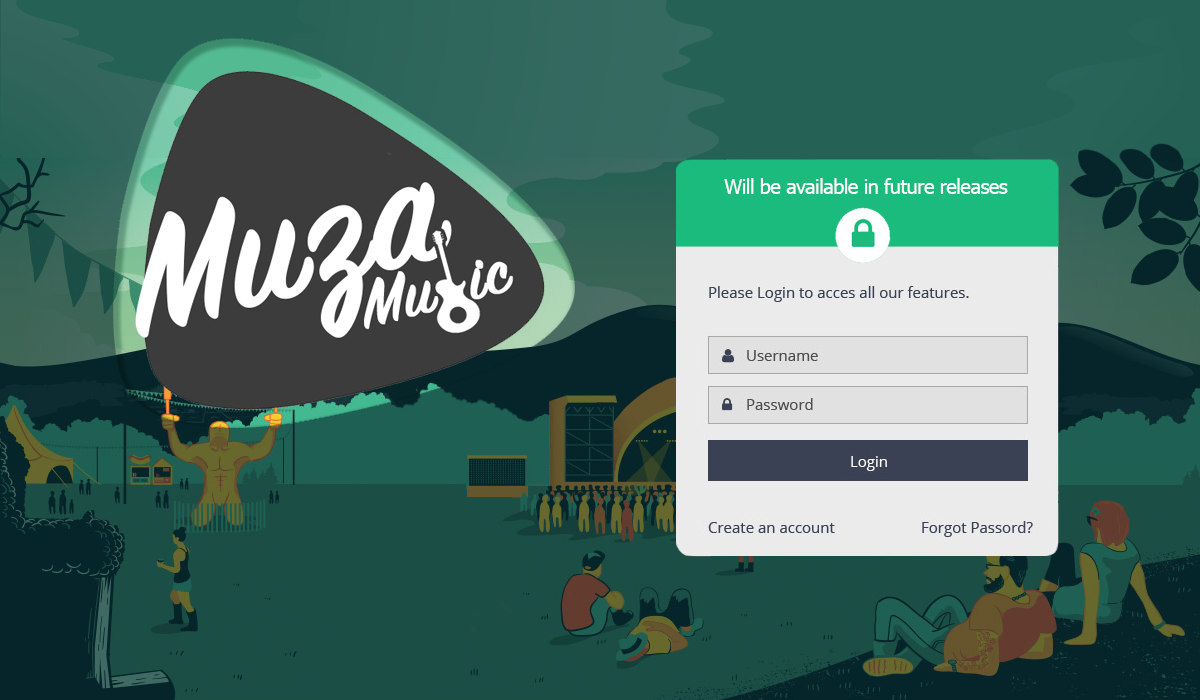
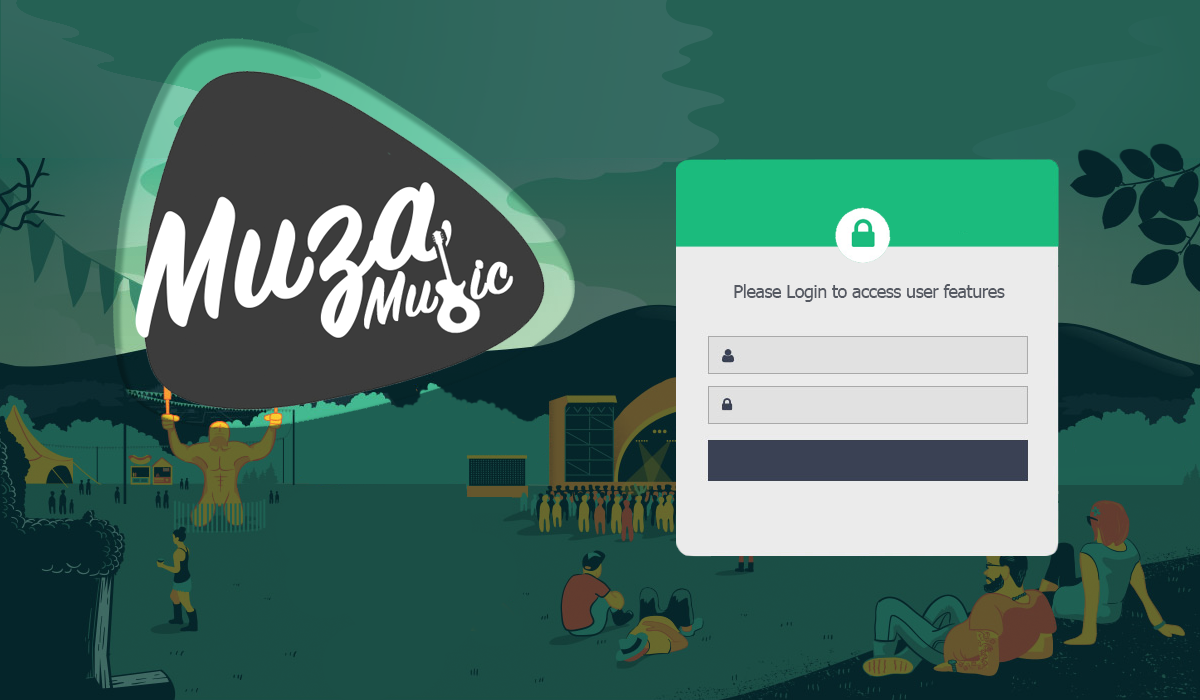
login was updated

diff --git a/src/gui/MainLogin.java b/src/gui/MainLogin.java
@@ -16,6 +16,7 @@ import java.util.Iterator;
 import java.util.logging.Level;
 import java.util.logging.Logger;
 import javax.swing.ComboBoxModel;
+import javax.swing.JOptionPane;
 import javax.swing.JPanel;
 
 /**
@@ -29,11 +30,6 @@ public class MainLogin extends javax.swing.JFrame {
      */
     public MainLogin() throws SQLException {
         initComponents();
-        ResultSet rs = MainClass.getDB().query("SELECT * FROM tblAgent");
-        jComboBox1.addItem("Select Agent");
-        while (rs.next()) {
-            jComboBox1.addItem(rs.getString(1));
-        }
         setVisible(true);
     }
 
@@ -46,127 +42,127 @@ public class MainLogin extends javax.swing.JFrame {
     // <editor-fold defaultstate="collapsed" desc="Generated Code">//GEN-BEGIN:initComponents
     private void initComponents() {
 
-        jButton4 = new javax.swing.JButton();
-        jLabel3 = new javax.swing.JLabel();
-        jLabel2 = new javax.swing.JLabel();
-        jButton1 = new javax.swing.JButton();
-        jComboBox1 = new javax.swing.JComboBox<>();
-        jLabel1 = new javax.swing.JLabel();
+        exitBtn = new javax.swing.JButton();
+        forgotPasswordBtn2 = new javax.swing.JButton();
+        newAccountBtn = new javax.swing.JButton();
+        loginBtn = new javax.swing.JButton();
+        passwordField = new javax.swing.JTextField();
+        usernameField = new javax.swing.JTextField();
+        wallpaper = new javax.swing.JLabel();
 
         setDefaultCloseOperation(javax.swing.WindowConstants.EXIT_ON_CLOSE);
         setPreferredSize(new java.awt.Dimension(1200, 725));
         setResizable(false);
         getContentPane().setLayout(null);
 
-        jButton4.setIcon(new javax.swing.ImageIcon(getClass().getResource("/imgs/exitBtn.png"))); // NOI18N
-        jButton4.setBorder(null);
-        jButton4.setBorderPainted(false);
-        jButton4.setContentAreaFilled(false);
-        jButton4.addActionListener(new java.awt.event.ActionListener() {
+        exitBtn.setIcon(new javax.swing.ImageIcon(getClass().getResource("/imgs/exitBtn.png"))); // NOI18N
+        exitBtn.setBorder(null);
+        exitBtn.setBorderPainted(false);
+        exitBtn.setContentAreaFilled(false);
+        exitBtn.addActionListener(new java.awt.event.ActionListener() {
             public void actionPerformed(java.awt.event.ActionEvent evt) {
-                jButton4ActionPerformed(evt);
+                exitBtnActionPerformed(evt);
             }
         });
-        getContentPane().add(jButton4);
-        jButton4.setBounds(1070, 610, 130, 40);
+        getContentPane().add(exitBtn);
+        exitBtn.setBounds(1070, 610, 130, 40);
 
-        jLabel3.setForeground(new java.awt.Color(255, 255, 255));
-        jLabel3.setText("Or login as representative:");
-        getContentPane().add(jLabel3);
-        jLabel3.setBounds(220, 580, 190, 16);
-
-        jLabel2.setForeground(new java.awt.Color(255, 255, 255));
-        jLabel2.setText("Choose an agent to login with:");
-        getContentPane().add(jLabel2);
-        jLabel2.setBounds(220, 540, 190, 16);
-
-        jButton1.setText("Representative");
-        jButton1.addItemListener(new java.awt.event.ItemListener() {
-            public void itemStateChanged(java.awt.event.ItemEvent evt) {
-                jButton1ItemStateChanged(evt);
-            }
-        });
-        jButton1.addActionListener(new java.awt.event.ActionListener() {
+        forgotPasswordBtn2.setFont(new java.awt.Font("Dialog", 0, 14)); // NOI18N
+        forgotPasswordBtn2.setForeground(new java.awt.Color(0, 0, 0));
+        forgotPasswordBtn2.setText("Forgot password");
+        forgotPasswordBtn2.setBorder(null);
+        forgotPasswordBtn2.setBorderPainted(false);
+        forgotPasswordBtn2.setContentAreaFilled(false);
+        forgotPasswordBtn2.setDefaultCapable(false);
+        forgotPasswordBtn2.setFocusPainted(false);
+        forgotPasswordBtn2.addActionListener(new java.awt.event.ActionListener() {
             public void actionPerformed(java.awt.event.ActionEvent evt) {
-                jButton1ActionPerformed(evt);
+                forgotPasswordBtn2ActionPerformed(evt);
             }
         });
-        getContentPane().add(jButton1);
-        jButton1.setBounds(410, 570, 130, 30);
+        getContentPane().add(forgotPasswordBtn2);
+        forgotPasswordBtn2.setBounds(880, 500, 140, 20);
 
-        jComboBox1.addItemListener(new java.awt.event.ItemListener() {
-            public void itemStateChanged(java.awt.event.ItemEvent evt) {
-                jComboBox1ItemStateChanged(evt);
-            }
-        });
-        jComboBox1.addActionListener(new java.awt.event.ActionListener() {
+        newAccountBtn.setFont(new java.awt.Font("Dialog", 0, 14)); // NOI18N
+        newAccountBtn.setForeground(new java.awt.Color(0, 0, 0));
+        newAccountBtn.setText("Create new account");
+        newAccountBtn.setBorder(null);
+        newAccountBtn.setBorderPainted(false);
+        newAccountBtn.setContentAreaFilled(false);
+        newAccountBtn.setDefaultCapable(false);
+        newAccountBtn.setFocusPainted(false);
+        newAccountBtn.addActionListener(new java.awt.event.ActionListener() {
             public void actionPerformed(java.awt.event.ActionEvent evt) {
-                jComboBox1ActionPerformed(evt);
+                newAccountBtnActionPerformed(evt);
             }
         });
-        getContentPane().add(jComboBox1);
-        jComboBox1.setBounds(410, 530, 130, 30);
+        getContentPane().add(newAccountBtn);
+        newAccountBtn.setBounds(710, 500, 160, 20);
 
-        jLabel1.setIcon(new javax.swing.ImageIcon(getClass().getResource("/imgs/muzaLogin.png"))); // NOI18N
-        getContentPane().add(jLabel1);
-        jLabel1.setBounds(0, 0, 1200, 700);
+        loginBtn.setFont(new java.awt.Font("Dialog", 0, 14)); // NOI18N
+        loginBtn.setForeground(new java.awt.Color(255, 255, 255));
+        loginBtn.setText("Login");
+        loginBtn.setBorder(null);
+        loginBtn.setBorderPainted(false);
+        loginBtn.setContentAreaFilled(false);
+        loginBtn.setDefaultCapable(false);
+        loginBtn.setFocusPainted(false);
+        loginBtn.setOpaque(false);
+        loginBtn.addActionListener(new java.awt.event.ActionListener() {
+            public void actionPerformed(java.awt.event.ActionEvent evt) {
+                loginBtnActionPerformed(evt);
+            }
+        });
+        getContentPane().add(loginBtn);
+        loginBtn.setBounds(713, 440, 310, 40);
+
+        passwordField.setBorder(null);
+        passwordField.setOpaque(false);
+        getContentPane().add(passwordField);
+        passwordField.setBounds(740, 390, 280, 30);
+
+        usernameField.setBorder(null);
+        usernameField.setOpaque(false);
+        getContentPane().add(usernameField);
+        usernameField.setBounds(740, 340, 280, 30);
+
+        wallpaper.setIcon(new javax.swing.ImageIcon(getClass().getResource("/imgs/muzaLogin.png"))); // NOI18N
+        getContentPane().add(wallpaper);
+        wallpaper.setBounds(0, 0, 1200, 700);
 
         pack();
     }// </editor-fold>//GEN-END:initComponents
 
-    private void jComboBox1ActionPerformed(java.awt.event.ActionEvent evt) {//GEN-FIRST:event_jComboBox1ActionPerformed
-        
-    }//GEN-LAST:event_jComboBox1ActionPerformed
-
-    private void jButton4ActionPerformed(java.awt.event.ActionEvent evt) {//GEN-FIRST:event_jButton4ActionPerformed
+    private void exitBtnActionPerformed(java.awt.event.ActionEvent evt) {//GEN-FIRST:event_exitBtnActionPerformed
         System.exit(1);
-    }//GEN-LAST:event_jButton4ActionPerformed
+    }//GEN-LAST:event_exitBtnActionPerformed
 
-    private void jComboBox1ItemStateChanged(java.awt.event.ItemEvent evt) {//GEN-FIRST:event_jComboBox1ItemStateChanged
-        if (jComboBox1.getSelectedIndex()==0) {
+    private void newAccountBtnActionPerformed(java.awt.event.ActionEvent evt) {//GEN-FIRST:event_newAccountBtnActionPerformed
+        // TODO add your handling code here:
+    }//GEN-LAST:event_newAccountBtnActionPerformed
+
+    private void forgotPasswordBtn2ActionPerformed(java.awt.event.ActionEvent evt) {//GEN-FIRST:event_forgotPasswordBtn2ActionPerformed
+        // TODO add your handling code here:
+    }//GEN-LAST:event_forgotPasswordBtn2ActionPerformed
+
+    private void loginBtnActionPerformed(java.awt.event.ActionEvent evt) {//GEN-FIRST:event_loginBtnActionPerformed
+        if (usernameField.getText().equals("") || passwordField.getText().equals("")) {
+            JOptionPane.showMessageDialog(this, "You must enter username & password", "Login error", JOptionPane.ERROR_MESSAGE);
             return;
         }
-        try {
-            if (evt.getStateChange() != ItemEvent.SELECTED) {
-                return;
-            }
+        if (usernameField.getText().equals("Admin") || passwordField.getText().equals("Admin")) {
             
-            Object item = evt.getItem();
-            if (item.equals("Select Agent")) {
-                return;
-            }
-            
-            ResultSet rs = MainClass.getDB().query("SELECT * FROM tblAgent WHERE ID=\""+item+"\"");
-            
-            while (rs.next()) {
-                Agent tmp = new Agent(rs.getString(1), rs.getString(2), rs.getString(3), rs.getString(4), rs.getString(5));
-                WindowManager.setUser(1, tmp);
-                this.dispose();
-                WindowManager.startMain();
-            }
-            
-        } catch (SQLException ex) {
-            Logger.getLogger(MainLogin.class.getName()).log(Level.SEVERE, null, ex);
         }
         
-    }//GEN-LAST:event_jComboBox1ItemStateChanged
-
-    private void jButton1ActionPerformed(java.awt.event.ActionEvent evt) {//GEN-FIRST:event_jButton1ActionPerformed
-        WindowManager.setUser(2, null);
-        this.dispose();
-        WindowManager.startMain();
-    }//GEN-LAST:event_jButton1ActionPerformed
-
-    private void jButton1ItemStateChanged(java.awt.event.ItemEvent evt) {//GEN-FIRST:event_jButton1ItemStateChanged
-
-    }//GEN-LAST:event_jButton1ItemStateChanged
+    }//GEN-LAST:event_loginBtnActionPerformed
 
     // Variables declaration - do not modify//GEN-BEGIN:variables
-    private javax.swing.JButton jButton1;
-    private javax.swing.JButton jButton4;
-    private javax.swing.JComboBox<String> jComboBox1;
-    private javax.swing.JLabel jLabel1;
-    private javax.swing.JLabel jLabel2;
-    private javax.swing.JLabel jLabel3;
+    private javax.swing.JButton exitBtn;
+    private javax.swing.JButton forgotPasswordBtn2;
+    private javax.swing.JButton loginBtn;
+    private javax.swing.JButton newAccountBtn;
+    private javax.swing.JTextField passwordField;
+    private javax.swing.JTextField usernameField;
+    private javax.swing.JLabel wallpaper;
     // End of variables declaration//GEN-END:variables
 }
